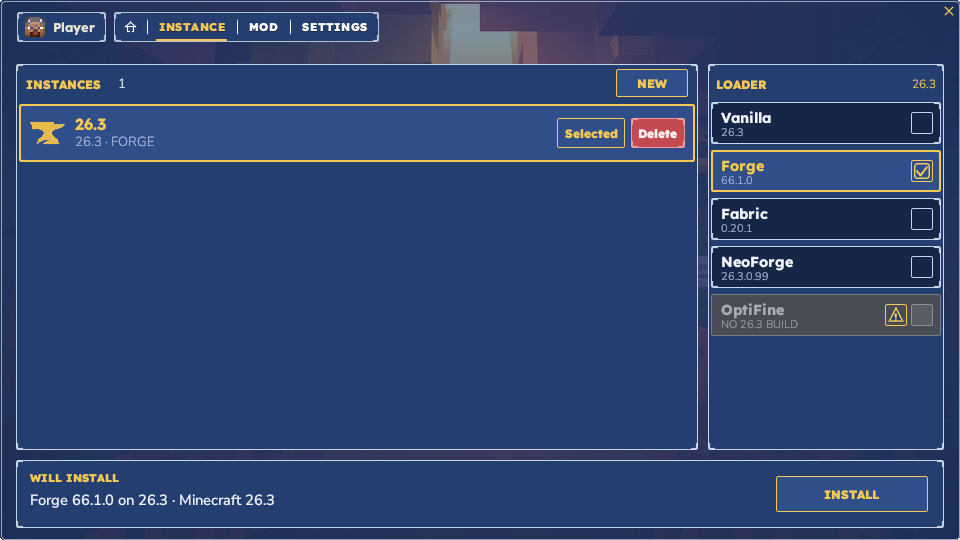
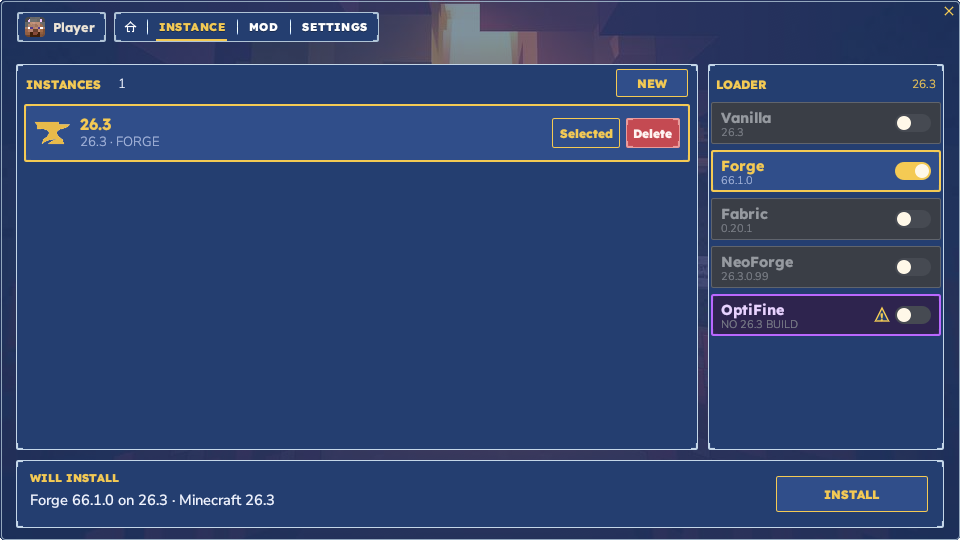
Release 0.2.24 with sliding loader switches.
A lit loader fades the other cards. Forge leaves OptiFine with a purple border so it can still be turned on.

Changed region(s): [[0.7188, 0.2963, 1.0, 0.6222], [0.5625, 0.1778, 1.0, 0.2963], [0.0, 0.1778, 0.1562, 0.2963]]

diff --git a/src/desktop.rs b/src/desktop.rs
@@ -1512,7 +1512,7 @@ impl Desktop {
             self.draft_version = if self.selected.is_empty() { "26.3".into() } else { self.selected.clone() };
             self.draft_open = true;
         }
-        let list = egui::Rect::from_min_max(egui::pos2(col.left() + 3.0, head.bottom() + 4.0), egui::pos2(col.right() - 3.0, col.bottom() - 6.0));
+        let list = egui::Rect::from_min_max(egui::pos2(col.left() + 8.0, head.bottom() + 4.0), egui::pos2(col.right() - 8.0, col.bottom() - 6.0));
         if self.instances.is_empty() {
             let btn = egui::Rect::from_center_size(list.center(), egui::vec2(220.0, 36.0));
             ui.painter().text(egui::pos2(list.center().x, list.center().y - 28.0), egui::Align2::CENTER_CENTER, "No instances yet", body_font(15.0), SPEC_MUTED);
@@ -1577,52 +1577,49 @@ impl Desktop {
             }
             return;
         }
+        let forge_on = self.loader == "forge" || self.loader == "forge+optifine";
+        let any_on = rows.iter().any(|r| self.loader_active(r.id));
         let mut clicked: Option<String> = None;
         for (i, row) in rows.iter().enumerate() {
             let y = list.top() + i as f32 * 48.0;
             let rect = egui::Rect::from_min_size(egui::pos2(list.left(), y), egui::vec2(list.width(), 42.0));
             let missing = matches!(row.kind, crate::loaders::Badge::Preview) && row.version.is_empty();
             let on = self.loader_active(row.id);
-            if missing {
+            let pair = row.id == "optifine" && forge_on && !on;
+            let fade = any_on && !on && !pair && !missing;
+            if pair {
+                paint_purple_card(ui.painter(), rect);
+            } else if missing {
                 ui.painter().rect_filled(rect, 1.5, egui::Color32::from_rgb(72, 76, 84));
                 ui.painter().rect_stroke(rect, 1.5, egui::Stroke::new(1.0, egui::Color32::from_rgb(120, 124, 132)), egui::StrokeKind::Inside);
+            } else if fade {
+                paint_faded_card(ui.painter(), rect);
             } else {
                 paint_opaque_card(ui.painter(), rect, on);
             }
-            let tick = egui::Rect::from_min_size(egui::pos2(rect.right() - 30.0, rect.center().y - 11.0), egui::vec2(22.0, 22.0));
-            let warn = egui::Rect::from_min_size(egui::pos2(tick.left() - 4.0 - 22.0, tick.top()), egui::vec2(22.0, 22.0));
+            let switch = egui::Rect::from_min_size(egui::pos2(rect.right() - 46.0, rect.center().y - 9.0), egui::vec2(36.0, 18.0));
+            let warn = egui::Rect::from_min_size(egui::pos2(switch.left() - 4.0 - 18.0, rect.center().y - 9.0), egui::vec2(18.0, 18.0));
             if missing {
-                ui.painter().rect_filled(warn, 1.5, egui::Color32::from_rgb(72, 76, 84));
-                ui.painter().rect_stroke(warn, 1.5, egui::Stroke::new(1.0, GOLD), egui::StrokeKind::Inside);
                 paint_warn(ui.painter(), warn.center());
             }
-            let tick_fill = if missing {
-                egui::Color32::from_rgb(90, 94, 100)
+            let can_switch = !missing || pair;
+            if paint_slide_switch(ui, switch, on && can_switch, egui::Id::new("loader-slide").with(row.id), can_switch) {
+                clicked = Some(row.id.to_string());
+            }
+            let text_right = if missing { warn.left() - 8.0 } else { switch.left() - 8.0 };
+            let ink = if pair {
+                egui::Color32::from_rgb(232, 210, 255)
+            } else if missing || fade {
+                egui::Color32::from_rgb(150, 154, 160)
             } else if on {
-                egui::Color32::from_rgb(48, 78, 138)
+                GOLD
             } else {
-                egui::Color32::from_rgb(22, 38, 70)
+                SPEC_TEXT
             };
-            let tick_edge = if on && !missing { GOLD } else if missing { egui::Color32::from_rgb(140, 144, 150) } else { egui::Color32::from_rgb(196, 214, 232) };
-            ui.painter().rect_filled(tick, 1.5, tick_fill);
-            ui.painter().rect_stroke(tick, 1.5, egui::Stroke::new(1.0, tick_edge), egui::StrokeKind::Inside);
-            if on && !missing {
-                paint_check(ui.painter(), tick.shrink(3.0), true);
-            }
-            let text_right = if missing { warn.left() - 8.0 } else { tick.left() - 8.0 };
-            let ink = if missing { egui::Color32::from_rgb(168, 172, 178) } else if on { GOLD } else { SPEC_TEXT };
             let detail = if row.version.is_empty() { row.detail.clone() } else { row.version.clone() };
+            let detail_ink = if missing || fade { egui::Color32::from_rgb(128, 132, 140) } else if pair { egui::Color32::from_rgb(196, 170, 230) } else { SPEC_MUTED };
             ui.painter().text(egui::pos2(rect.left() + 10.0, rect.top() + 15.0), egui::Align2::LEFT_CENTER, row.name, title_font(14.0), ink);
-            ui.painter().text(egui::pos2(rect.left() + 10.0, rect.top() + 30.0), egui::Align2::LEFT_CENTER, &ellipsize(ui.painter(), &detail, sub_font(11.0), text_right - rect.left() - 12.0), sub_font(11.0), if missing { egui::Color32::from_rgb(150, 154, 160) } else { SPEC_MUTED });
-            if !missing {
-                let hit = ui.interact(tick, egui::Id::new("loader-toggle").with(row.id), Sense::click());
-                if hit.clicked() {
-                    clicked = Some(row.id.to_string());
-                }
-                if hit.hovered() {
-                    ui.ctx().set_cursor_icon(CursorIcon::PointingHand);
-                }
-            }
+            ui.painter().text(egui::pos2(rect.left() + 10.0, rect.top() + 30.0), egui::Align2::LEFT_CENTER, &ellipsize(ui.painter(), &detail, sub_font(11.0), (text_right - rect.left() - 12.0).max(24.0)), sub_font(11.0), detail_ink);
         }
         if let Some(id) = clicked {
             self.toggle_loader(&id);
@@ -4197,6 +4194,41 @@ fn opaque_button(ui: &mut egui::Ui, rect: egui::Rect, label: &str, primary: bool
     ui.painter().rect_filled(rect, 1.5, fill);
     ui.painter().rect_stroke(rect, 1.5, egui::Stroke::new(1.0, edge), egui::StrokeKind::Inside);
     ui.painter().text(rect.center(), egui::Align2::CENTER_CENTER, label, nav_font(12.0), if primary { GOLD } else { egui::Color32::from_rgb(255, 246, 226) });
+    if hit.hovered() {
+        ui.ctx().set_cursor_icon(CursorIcon::PointingHand);
+    }
+    hit.clicked()
+}
+
+fn paint_faded_card(painter: &egui::Painter, rect: egui::Rect) {
+    painter.rect_filled(rect, 1.5, egui::Color32::from_rgb(58, 62, 70));
+    painter.rect_stroke(rect, 1.5, egui::Stroke::new(1.0, egui::Color32::from_rgb(96, 100, 108)), egui::StrokeKind::Inside);
+}
+
+fn paint_purple_card(painter: &egui::Painter, rect: egui::Rect) {
+    let edge = egui::Color32::from_rgb(186, 104, 255);
+    painter.rect_filled(rect, 1.5, egui::Color32::from_rgb(46, 36, 78));
+    painter.rect_stroke(rect, 1.5, egui::Stroke::new(2.0, edge), egui::StrokeKind::Inside);
+    paint_corner_caps(painter, rect, edge);
+}
+
+fn paint_slide_switch(ui: &mut egui::Ui, rect: egui::Rect, on: bool, id: egui::Id, enabled: bool) -> bool {
+    let t = ui.ctx().animate_bool_with_time(id.with("knob"), on, 0.16);
+    let track = if !enabled {
+        egui::Color32::from_rgb(90, 94, 100)
+    } else if t > 0.5 {
+        GOLD
+    } else {
+        egui::Color32::from_rgb(70, 74, 82)
+    };
+    ui.painter().rect_filled(rect, rect.height() * 0.5, track);
+    let knob = rect.height() - 4.0;
+    let x = rect.left() + 2.0 + t * (rect.width() - knob - 4.0);
+    ui.painter().circle_filled(egui::pos2(x + knob * 0.5, rect.center().y), knob * 0.5, egui::Color32::from_rgb(255, 248, 232));
+    if !enabled {
+        return false;
+    }
+    let hit = ui.interact(rect, id, Sense::click());
     if hit.hovered() {
         ui.ctx().set_cursor_icon(CursorIcon::PointingHand);
     }

diff --git a/README.md b/README.md
@@ -124,8 +124,8 @@ Linux sandbox: `apt install bubblewrap`. Without it, the client still gets a pri
 
 | Platform | File |
 | --- | --- |
-| Linux x86-64 | [rus-linux-x86_64](https://github.com/obsifox/rus/releases/download/0.2.23/rus-linux-x86_64) |
-| Windows x64 | [rus-windows-x64.exe](https://github.com/obsifox/rus/releases/download/0.2.23/rus-windows-x64.exe) |
+| Linux x86-64 | [rus-linux-x86_64](https://github.com/obsifox/rus/releases/download/0.2.24/rus-linux-x86_64) |
+| Windows x64 | [rus-windows-x64.exe](https://github.com/obsifox/rus/releases/download/0.2.24/rus-windows-x64.exe) |
 
 Linux:
 
